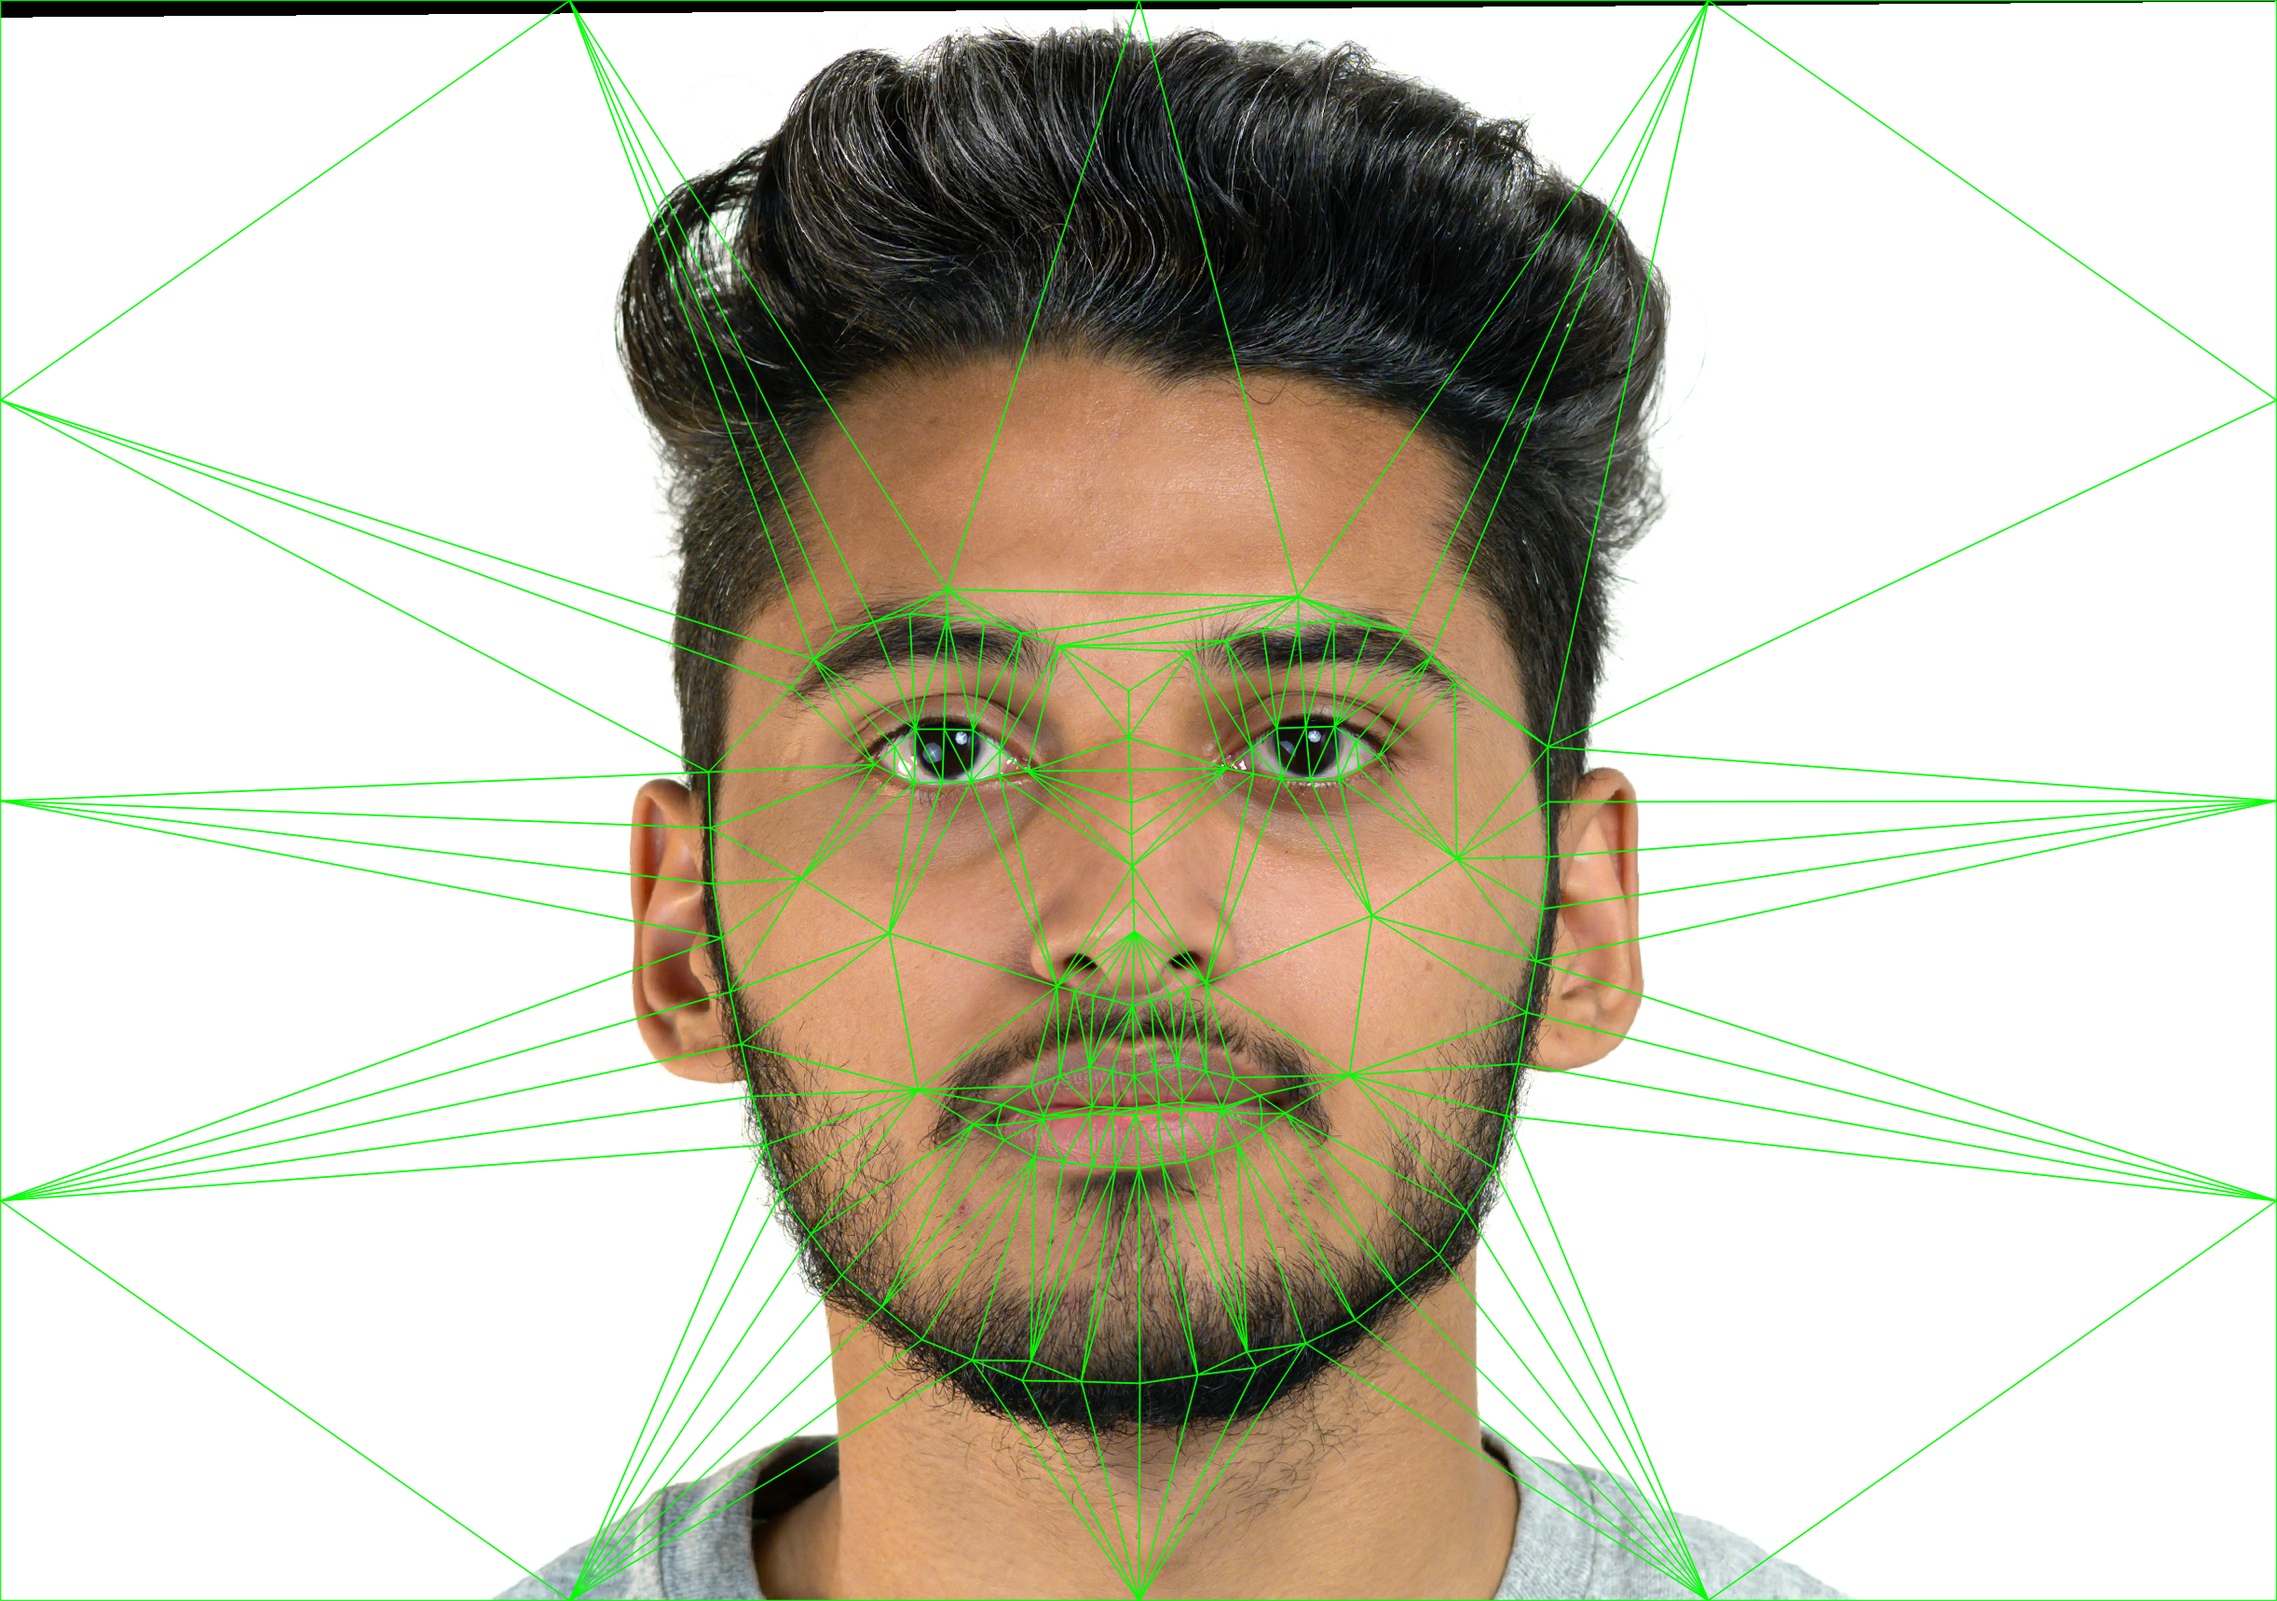
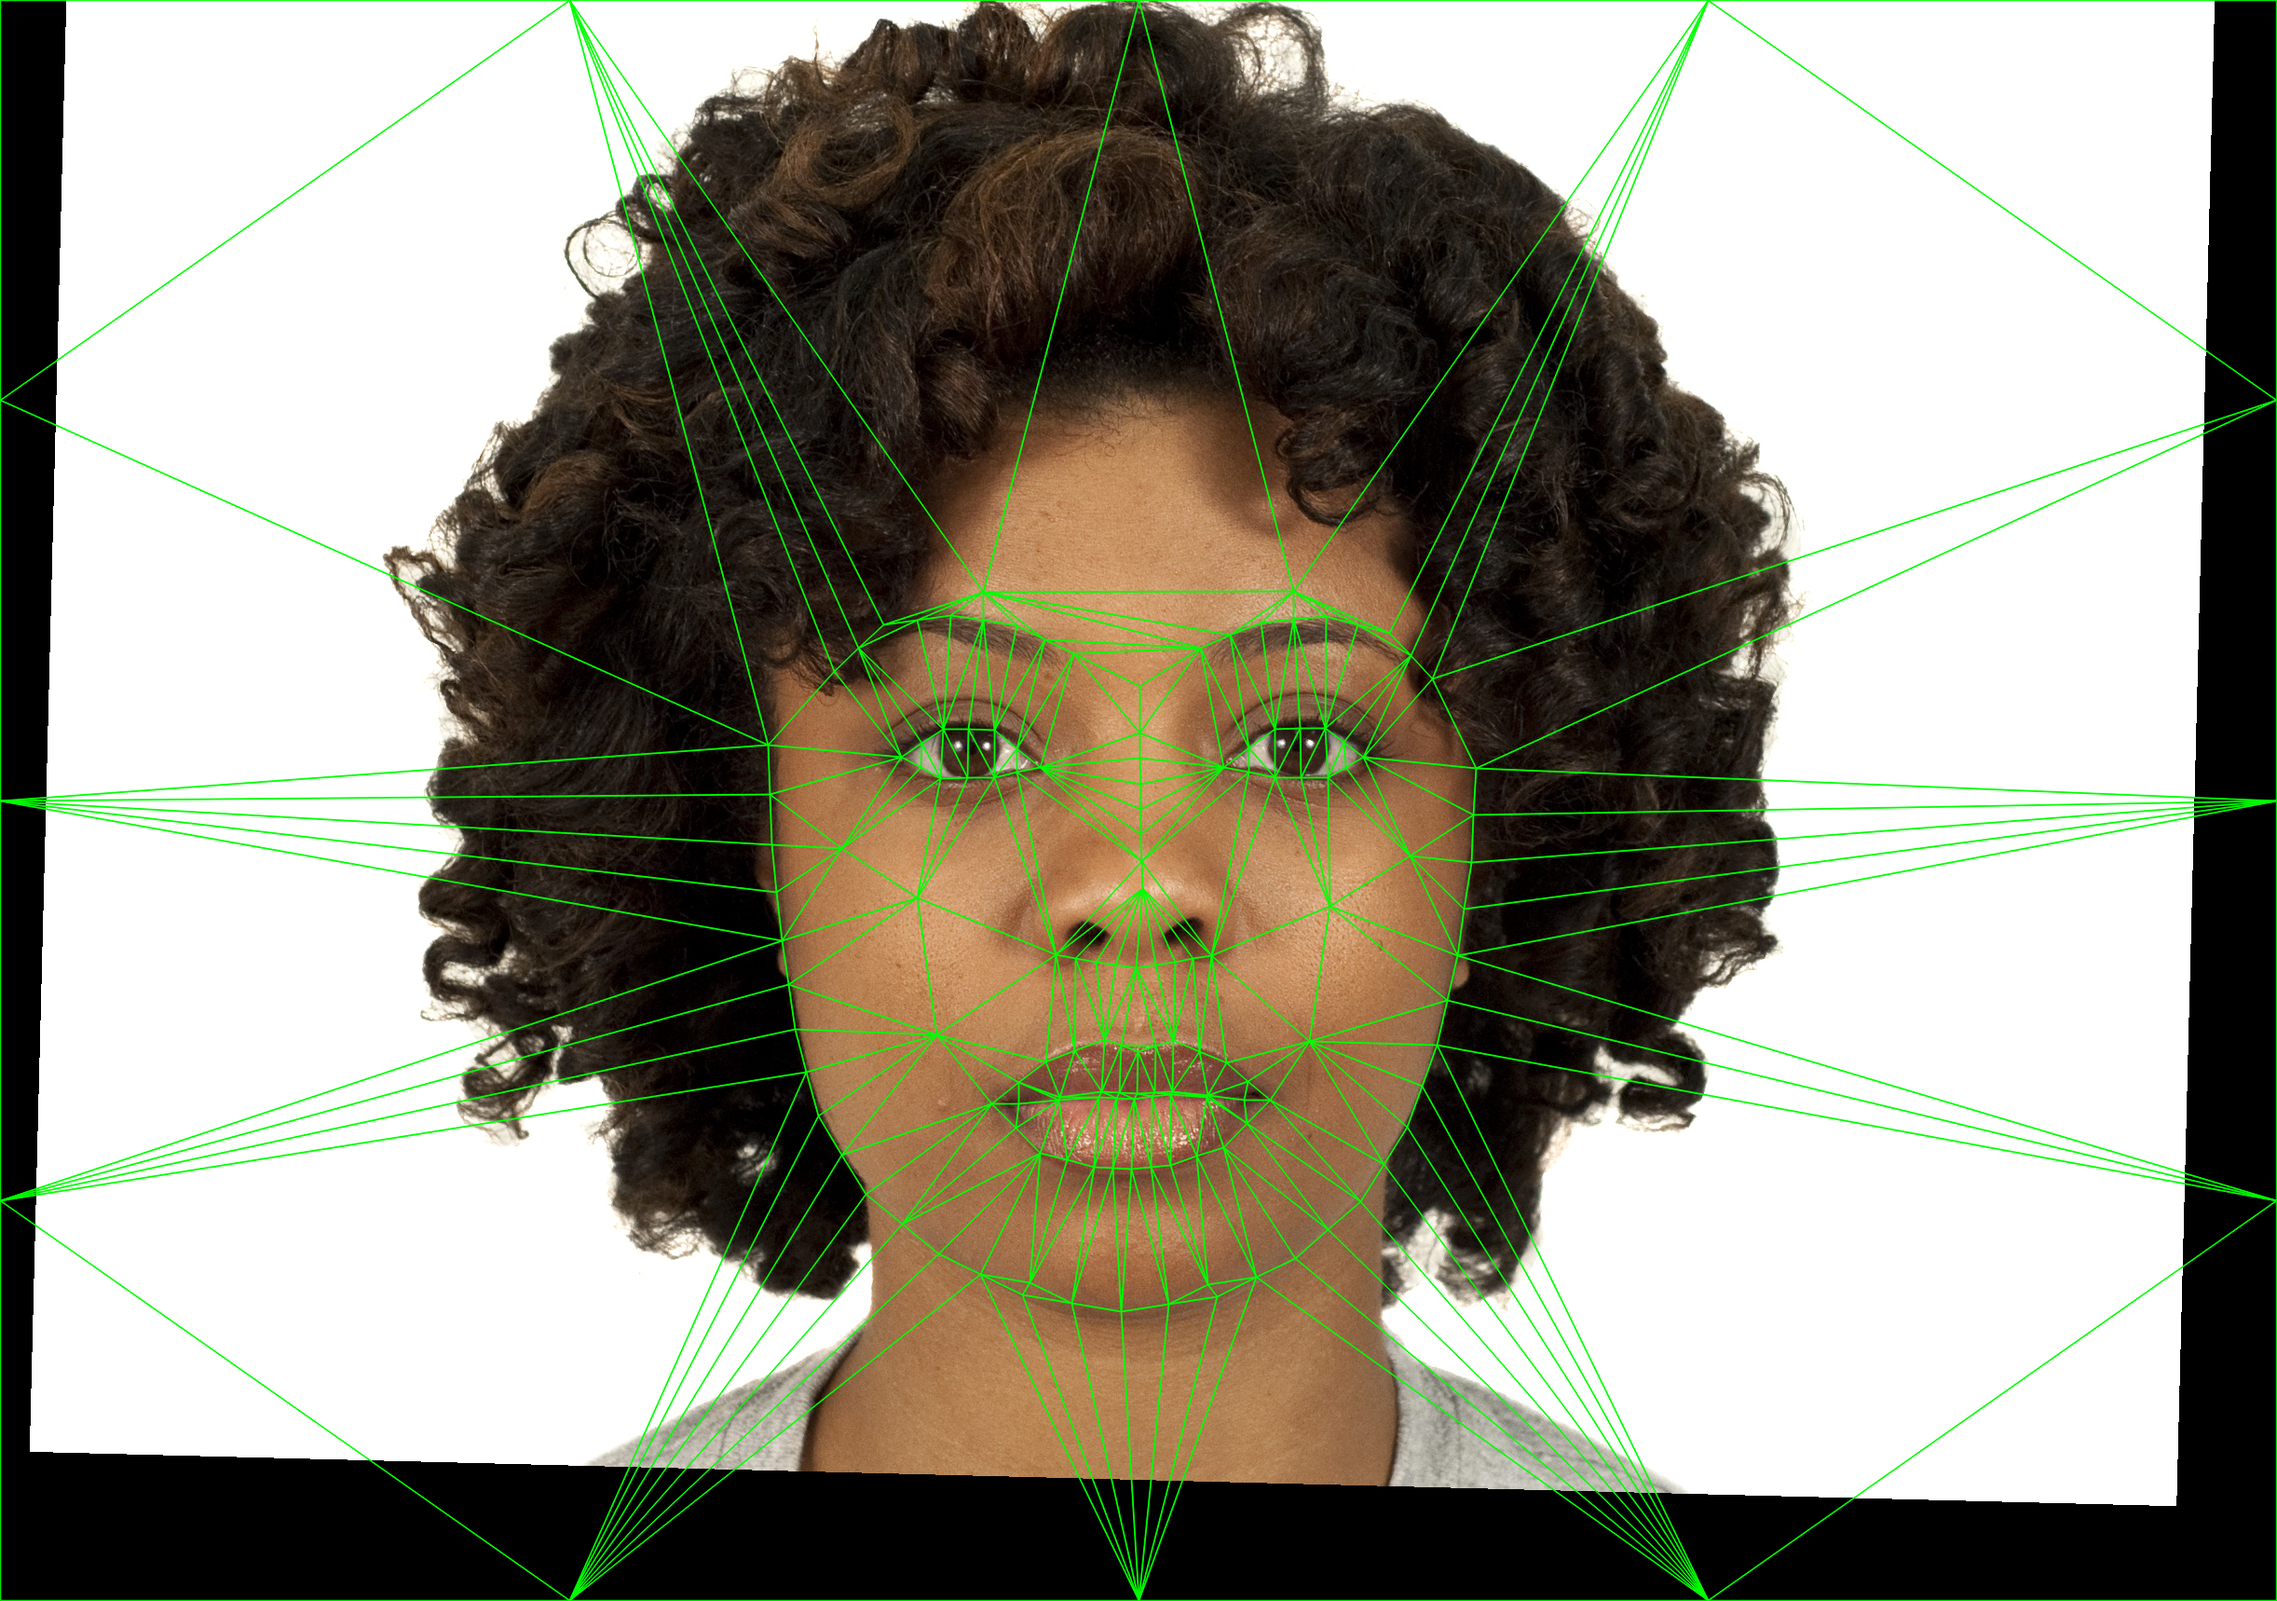
Update

diff --git a/DeepFace/DeepFace.py b/DeepFace/DeepFace.py
@@ -4,8 +4,8 @@ import pandas as pd
 import os
 
 imgx = "/Users/eldarakhundzada/Desktop/8. Semester/BachelorThesis/DeepFace/Persons/black/Man/IM98.png"
-img1 = "/Users/eldarakhundzada/Desktop/8. Semester/BachelorThesis/DeepFace/Persons/indian/Man/IM190.png"
-img2 = "/Users/eldarakhundzada/Desktop/8. Semester/BachelorThesis/DeepFace/Persons/indian/Man/IM181.png"
+img1 = "/Users/eldarakhundzada/Desktop/8. Semester/BachelorThesis/DeepFace/Persons/asian/Man/101/Test1.png"
+img2 = "/Users/eldarakhundzada/Desktop/8. Semester/BachelorThesis/DeepFace/Persons/asian/Man/101/Test2.png"
 
 imgMorph = "/Users/eldarakhundzada/Desktop/8. Semester/BachelorThesis/DeepFace/Persons/indian/Man/190/IM190-low.png"
 #imgMorph = "/Users/eldarakhundzada/Desktop/8. Semester/BachelorThesis/FaceMorphing/TestE.png"
@@ -85,8 +85,8 @@ def analyzePerson(im1):
 
 
 #comparePersons(compareImage, pathToCompare)
-#passControl(img1, imgMorph)
+passControl(img1, img2)
 #classifyPerson(folderPath)
-person = analyzePerson(imgx)
+""" person = analyzePerson(imgx)
 print("Gender: " + person['gender'])
-print("Race: " + person['race'])
+print("Race: " + person['race']) """

diff --git a/FaceMorphing/FaceMorph.py b/FaceMorphing/FaceMorph.py
@@ -60,8 +60,8 @@ from scipy.spatial import Delaunay
 
 ShapePredictor = "shape_predictor_68_face_landmarks.dat"
 
-imagePathA = "/Users/eldarakhundzada/Desktop/8. Semester/BachelorThesis/DeepFace/Persons/indian/Man/IM181.png"
-imagePathB = "/Users/eldarakhundzada/Desktop/8. Semester/BachelorThesis/DeepFace/Persons/indian/Man/IM190.png"
+imagePathA = "/Users/eldarakhundzada/Desktop/8. Semester/BachelorThesis/DeepFace/Persons/black/Woman/IM17.png"
+imagePathB = "/Users/eldarakhundzada/Desktop/8. Semester/BachelorThesis/DeepFace/Persons/black/Woman/IM454.png"
 predictor = dlib.shape_predictor(ShapePredictor)
 detector = dlib.get_frontal_face_detector()
 
@@ -448,4 +448,4 @@ center = (r[0] + r[2] // 2, r[1] + r[3] // 2)
 
 output = cv2.seamlessClone(srcBlended, dst, maskEroded, center, cv2.NORMAL_CLONE)
 
-cv2.imwrite("/Users/eldarakhundzada/Desktop/8. Semester/BachelorThesis/DeepFace/Persons/indian/Man/190/IM190-low.png", output)
+cv2.imwrite("/Users/eldarakhundzada/Desktop/8. Semester/BachelorThesis/FaceMorphing/Results/Result.png", output)
